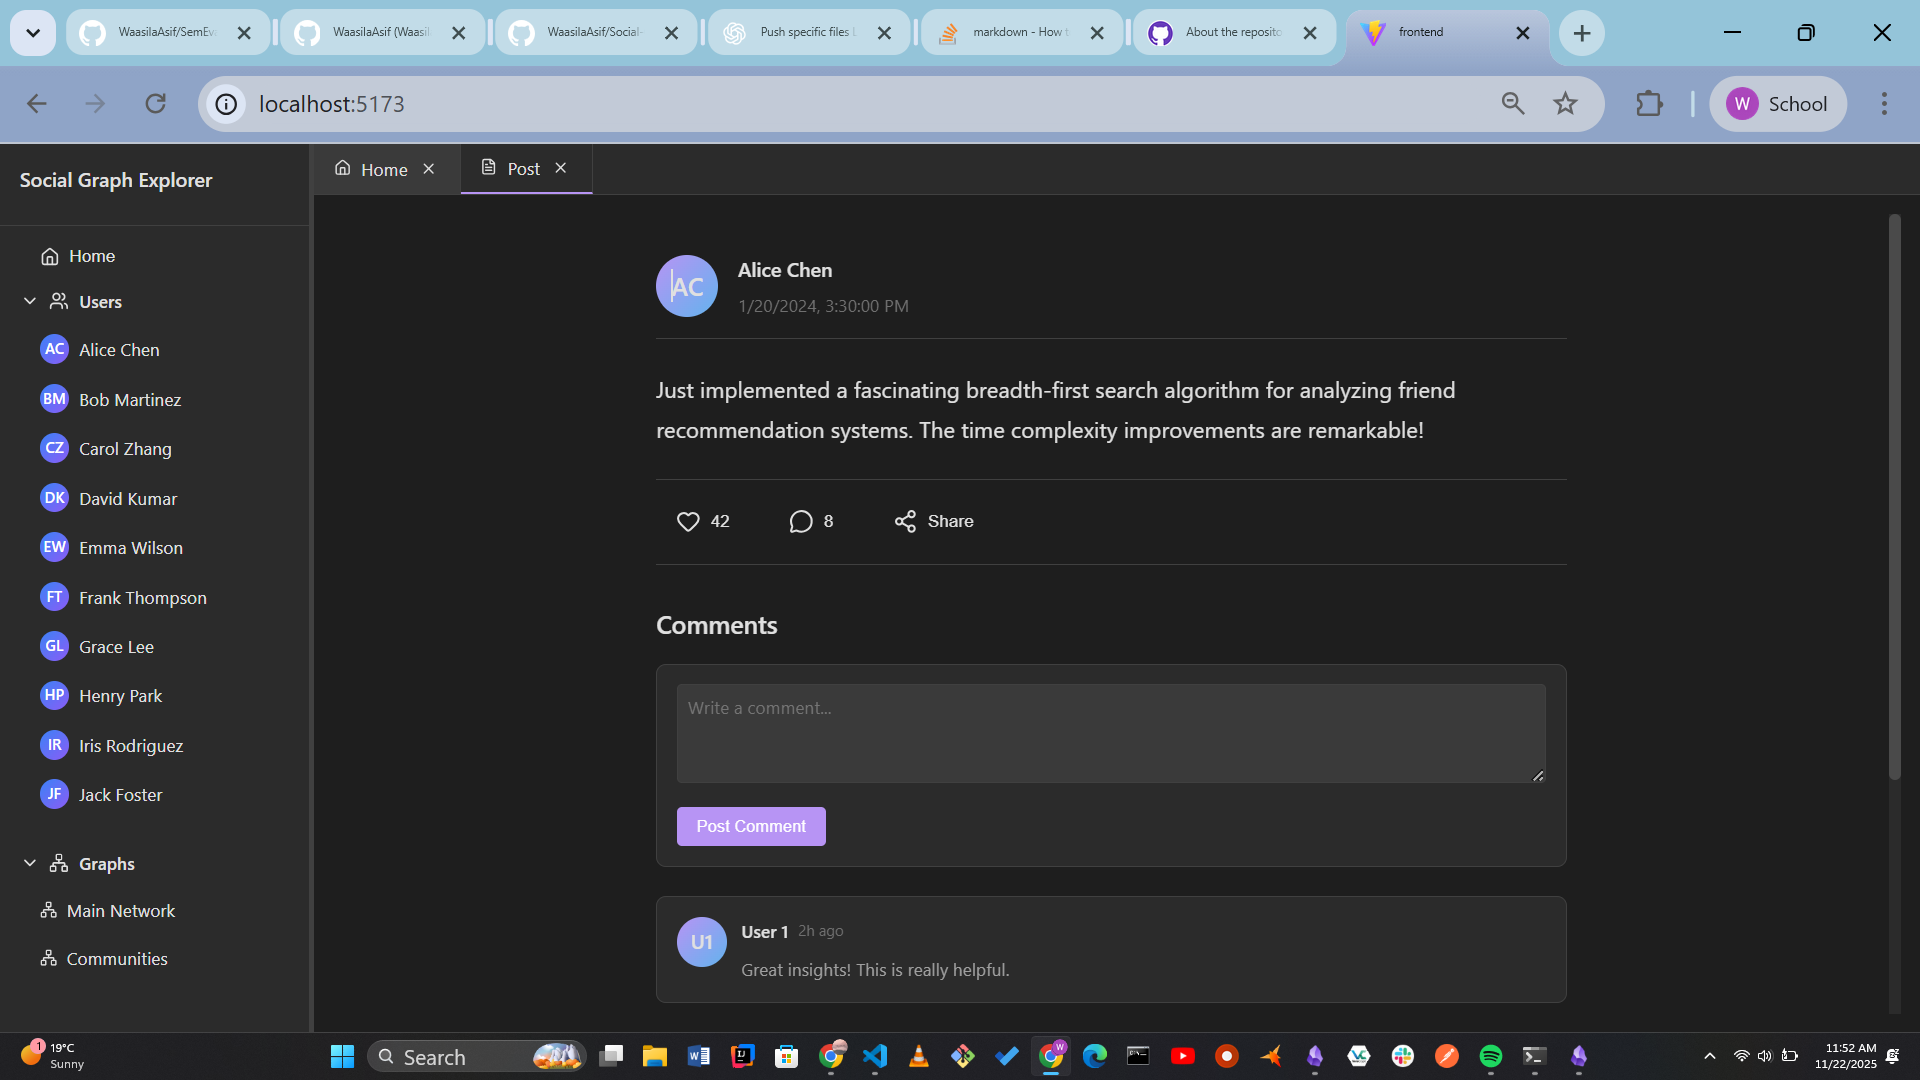
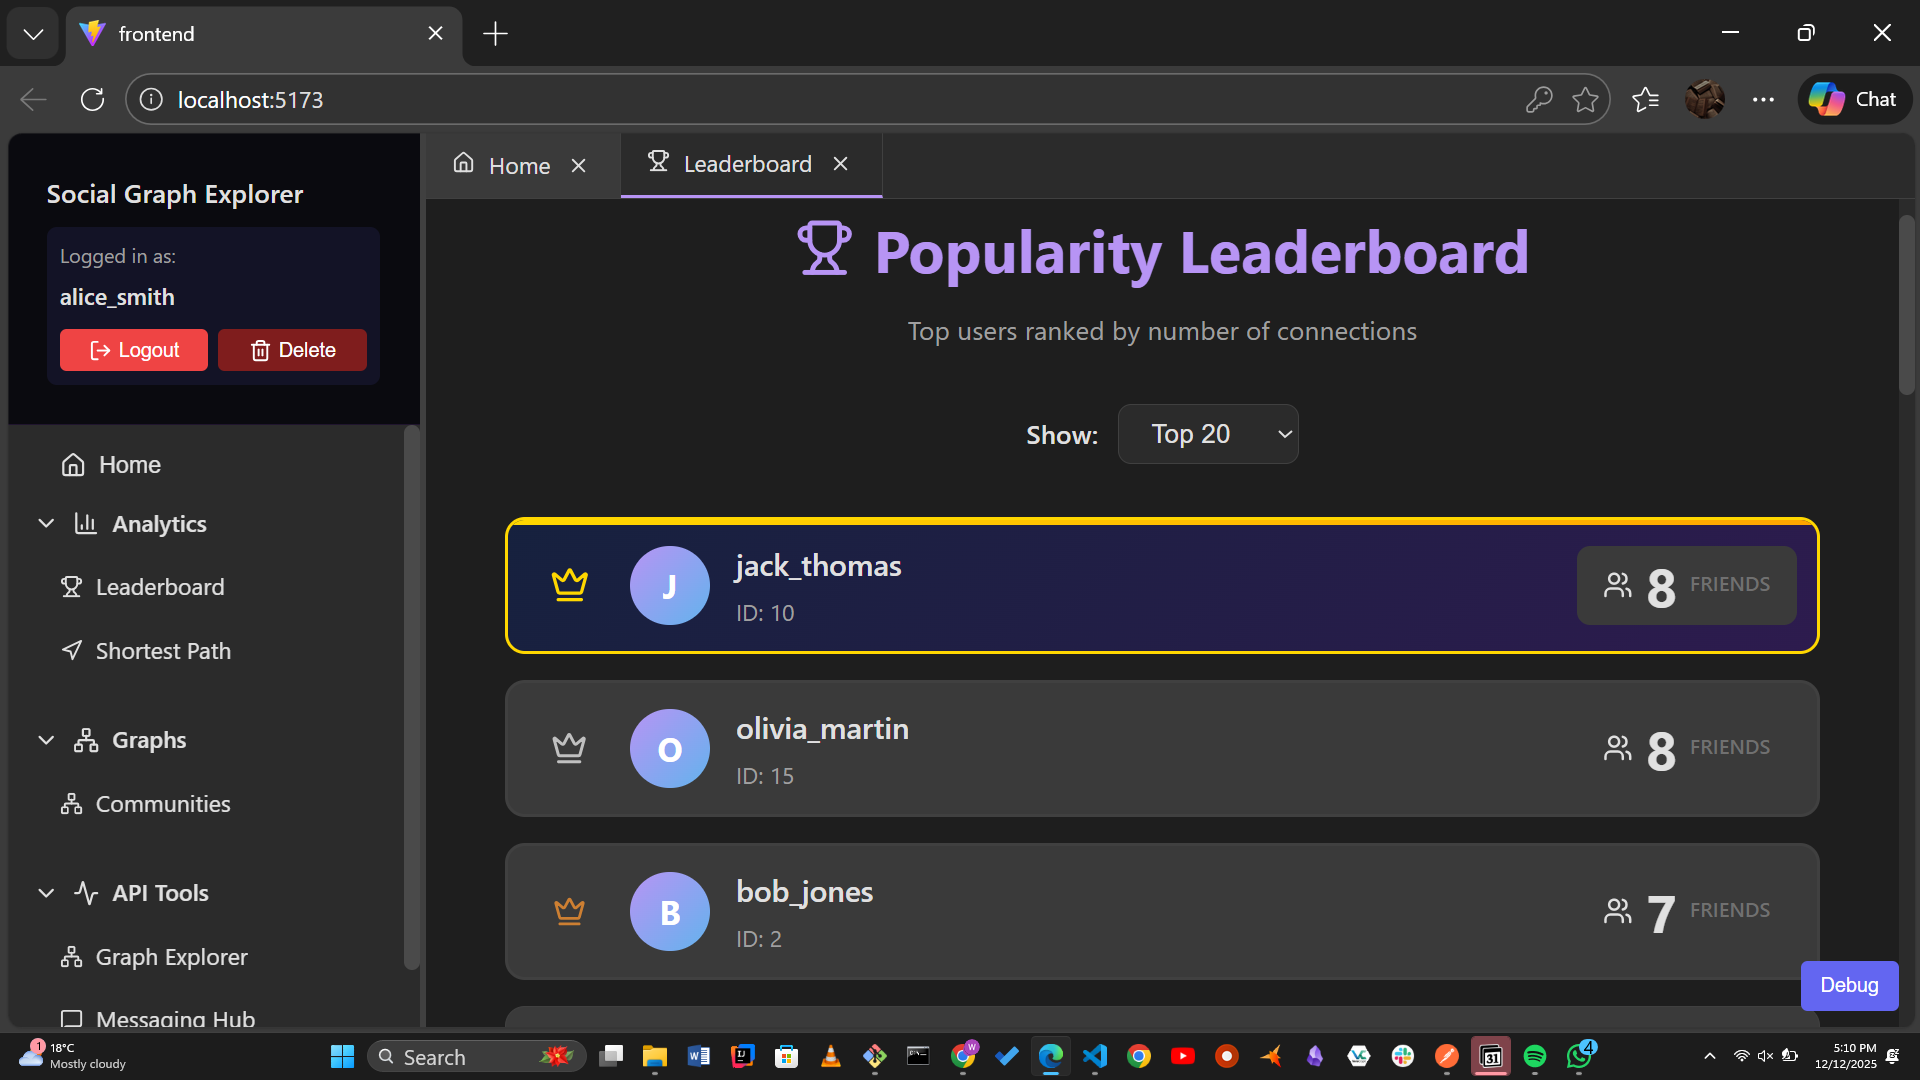
Fixed Readme

diff --git a/README.md b/README.md
@@ -2,8 +2,11 @@
 
 A comprehensive **Social Network Backend & Frontend** application demonstrating advanced **Data Structures and Algorithms (DSA)** concepts. This project implements a mini Instagram-like social network with real-time graph operations, messaging systems, and analytics.
 
-![Main Page](image.png)
-
+![Sign in Page](image-4.png)
+![Dashboard](image.png)
+![LeaderBoard](image-1.png)
+![Social Graph](image-2.png)
+![Messaging interface](image-3.png)
 ---
 
 ##  Table of Contents
@@ -390,7 +393,7 @@ curl -X POST http://localhost:8081/graph/addFriend \
 }
 ```
 
-#### Example: Graph Statistics
+
 ```bash
 curl http://localhost:8081/graph/stats
 ```
@@ -398,7 +401,7 @@ curl http://localhost:8081/graph/stats
 **Response:**
 ```json
 {
-  "nodeCount": 320,
+  "nodeCount": 25,
   "edgeCount": 61,
   "averageDegree": 2.1,
   "density": 0.0012,
@@ -606,9 +609,9 @@ curl "http://localhost:8081/api/algo/friend-suggestions?userId=1&limit=5"
 
 | Entity | Count |
 |--------|-------|
-| Users | 320 |
-| Friendships | 61 |
-| Messages | 51 |
+| Users | 25 |
+| Friendships | 80 |
+| Messages | 64 |
 
 ---
 
